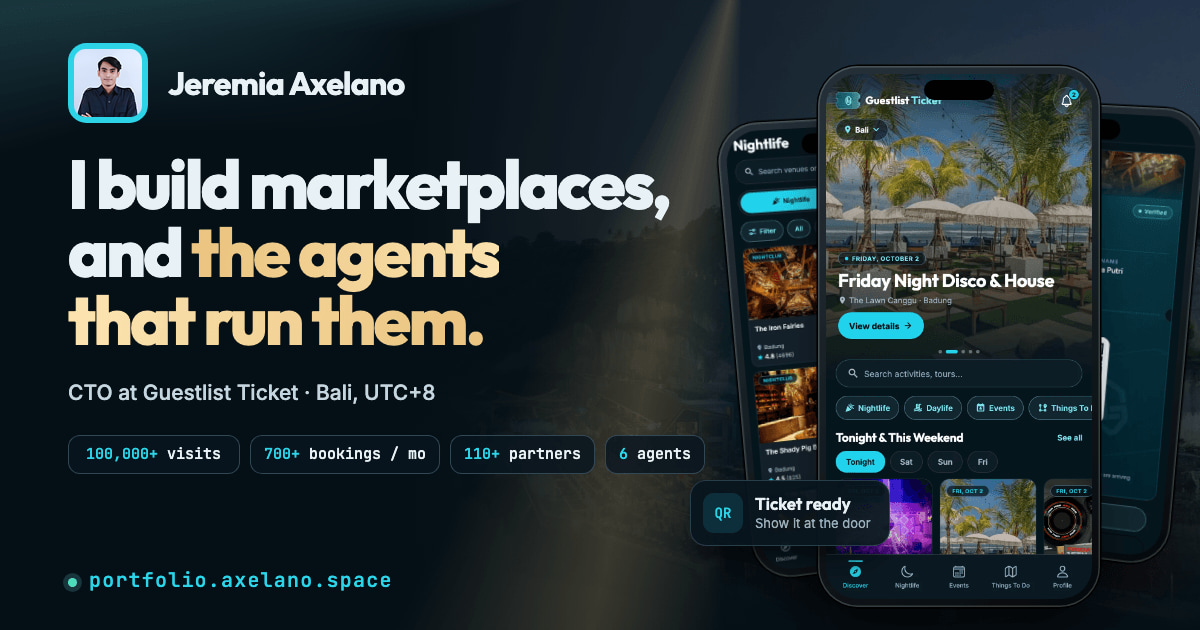
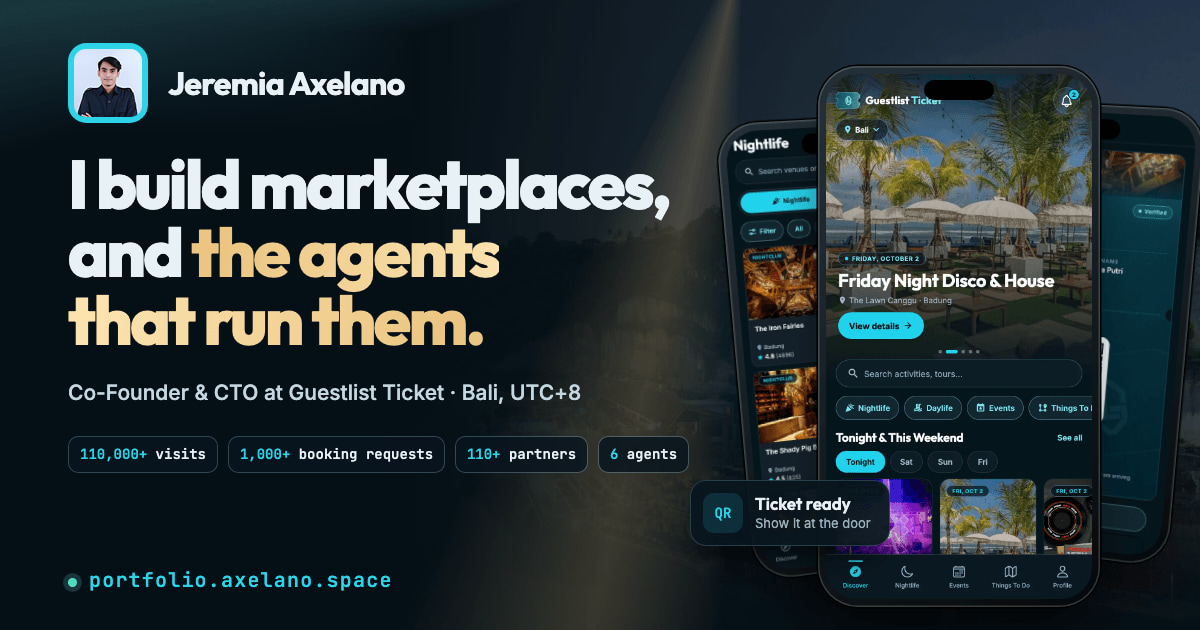
og: home share image says Co-Founder & CTO, 110,000+ visits, 1,000+ booking requests (cache ?v=3)
Claude-Session: https://claude.ai/code/session_01HXxjDYXgfFtfLLyiHtaDCj

Changed region(s): [[0.0617, 0.6635, 0.5858, 0.754], [0.0617, 0.6032, 0.4933, 0.6333]]

diff --git a/lib/seo.ts b/lib/seo.ts
@@ -26,7 +26,7 @@ export const BUILT_AT = new Date();
 
 /** Home share image (public/og-image.jpg, 1200x630). ?v= makes social networks fetch a fresh copy after a change. */
 export const OG_IMAGE = {
-  url: "/og-image.jpg?v=2",
+  url: "/og-image.jpg?v=3",
   width: 1200,
   height: 630,
   type: "image/jpeg",
